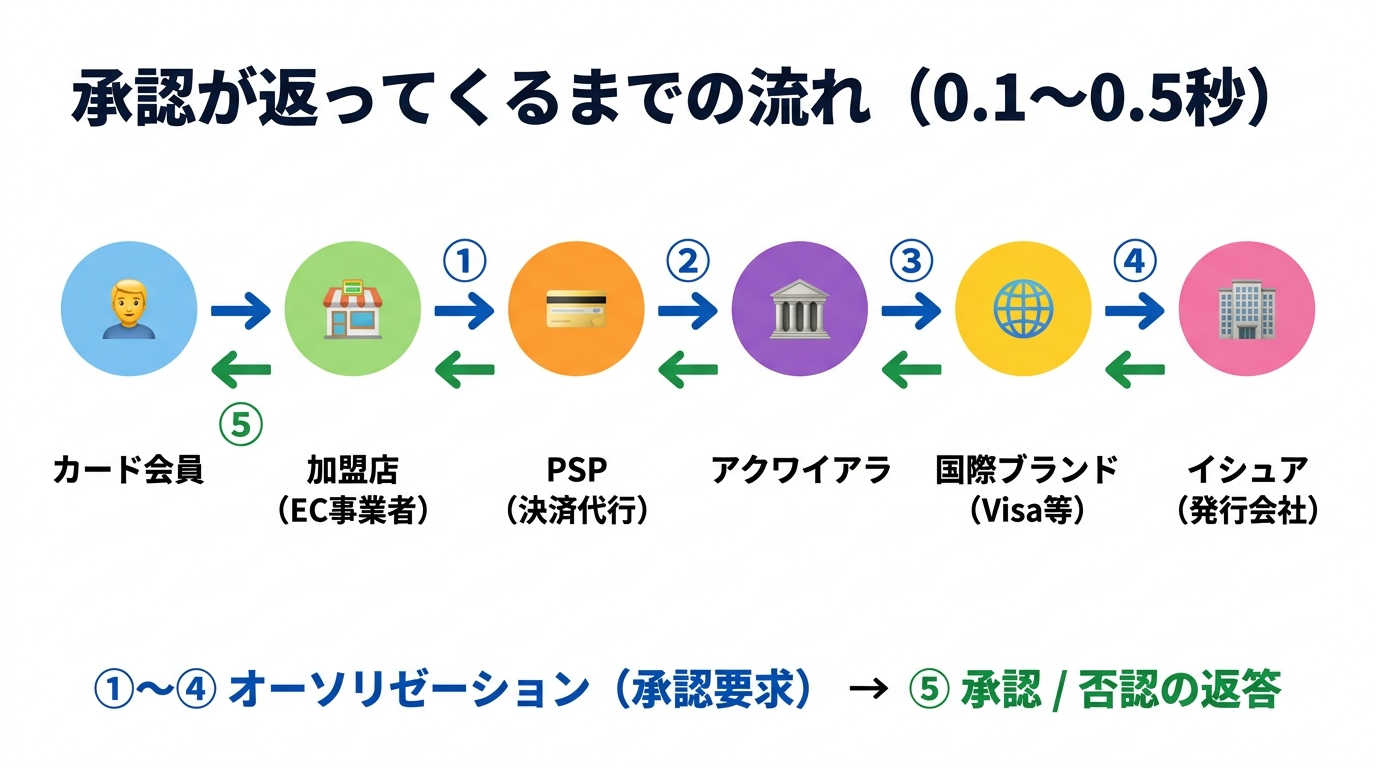
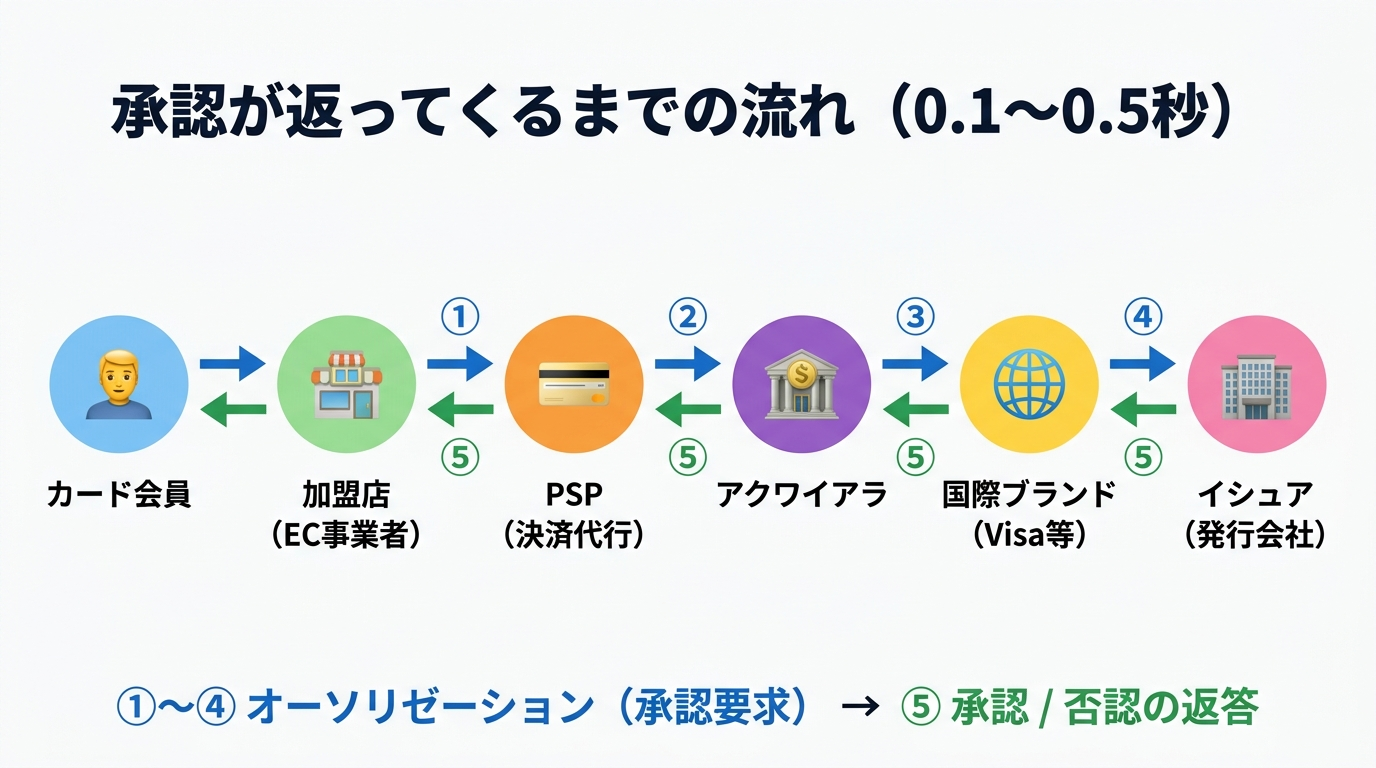
Add step 5 badge to all return arrows in auth flow diagram
⑤ now appears on every green return arrow (イシュア→加盟店, all 4 gaps).
カード会員↔加盟店 arrows have no badges in either direction.
Update both PNG and HTML source to match.

Changed region(s): [[0.0312, 0.3125, 0.9688, 0.7188], [0.0312, 0.0625, 0.9375, 0.1875], [0.0625, 0.8438, 0.9375, 0.9688]]

diff --git a/static/images/payment-flow-diagram.html b/static/images/payment-flow-diagram.html
@@ -142,7 +142,7 @@
         <div class="arrowhead arrow-right"></div>
       </div>
       <div class="arrow-row" style="flex-direction:row-reverse;">
-        <div class="step-badge badge-green">⑤</div>
+        <div class="step-badge badge-green" style="opacity:0">⑤</div>
         <div class="arrow-line line-green"></div>
         <div class="arrowhead arrow-left"></div>
       </div>
@@ -162,7 +162,7 @@
         <div class="arrowhead arrow-right"></div>
       </div>
       <div class="arrow-row" style="flex-direction:row-reverse;">
-        <div class="step-badge badge-green" style="opacity:0">⑤</div>
+        <div class="step-badge badge-green">⑤</div>
         <div class="arrow-line line-green"></div>
         <div class="arrowhead arrow-left"></div>
       </div>
@@ -182,7 +182,7 @@
         <div class="arrowhead arrow-right"></div>
       </div>
       <div class="arrow-row" style="flex-direction:row-reverse;">
-        <div class="step-badge badge-green" style="opacity:0">⑤</div>
+        <div class="step-badge badge-green">⑤</div>
         <div class="arrow-line line-green"></div>
         <div class="arrowhead arrow-left"></div>
       </div>
@@ -202,7 +202,7 @@
         <div class="arrowhead arrow-right"></div>
       </div>
       <div class="arrow-row" style="flex-direction:row-reverse;">
-        <div class="step-badge badge-green" style="opacity:0">⑤</div>
+        <div class="step-badge badge-green">⑤</div>
         <div class="arrow-line line-green"></div>
         <div class="arrowhead arrow-left"></div>
       </div>
@@ -222,7 +222,7 @@
         <div class="arrowhead arrow-right"></div>
       </div>
       <div class="arrow-row" style="flex-direction:row-reverse;">
-        <div class="step-badge badge-green" style="opacity:0">⑤</div>
+        <div class="step-badge badge-green">⑤</div>
         <div class="arrow-line line-green"></div>
         <div class="arrowhead arrow-left"></div>
       </div>
